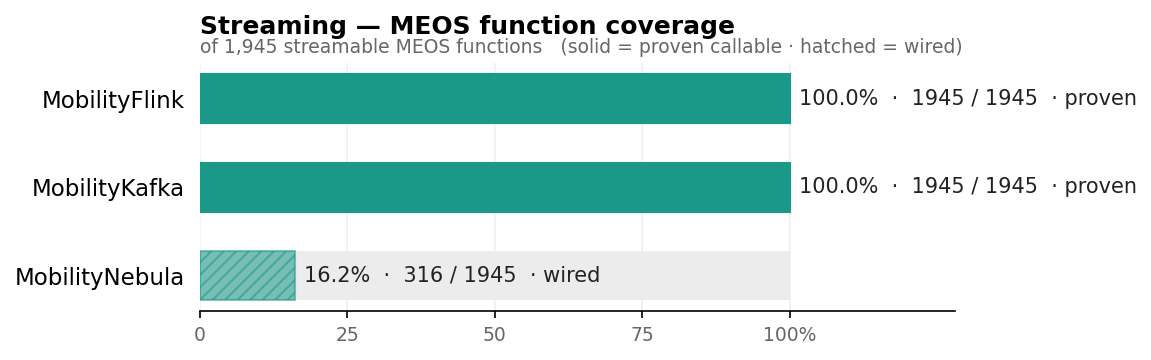
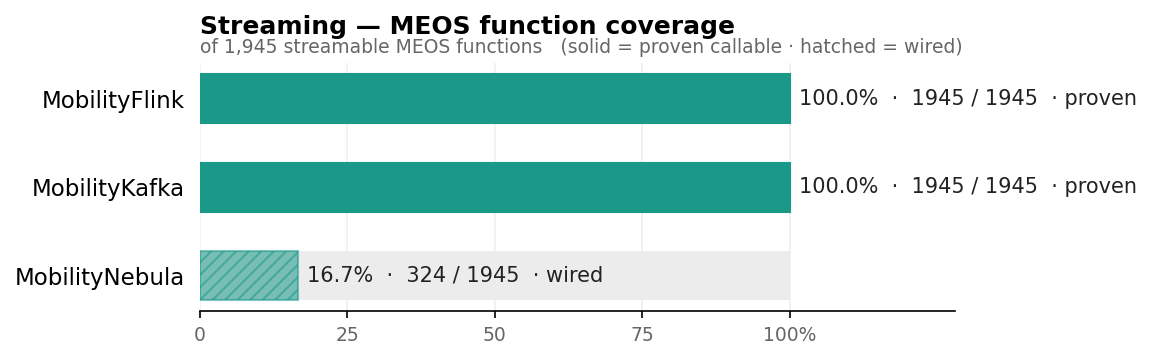
docs(profile): Nebula coverage 316 -> 324 (tnumber value-output aggregates)

Changed region(s): [[0.2433, 0.7028, 0.5474, 0.825]]

diff --git a/profile/images/coverage_charts.py b/profile/images/coverage_charts.py
@@ -56,7 +56,7 @@ hbar(
     [
         ("MobilityFlink",  100.0, "100.0%  ·  1945 / 1945  · proven", "#1a9988", True),
         ("MobilityKafka",  100.0, "100.0%  ·  1945 / 1945  · proven", "#1a9988", True),
-        ("MobilityNebula",  16.2, "16.2%  ·  316 / 1945  · wired",    "#1a9988", False),
+        ("MobilityNebula",  16.7, "16.7%  ·  324 / 1945  · wired",    "#1a9988", False),
     ],
     "of 1,945 streamable MEOS functions   (solid = proven callable · hatched = wired)",
 )

diff --git a/profile/streaming-parity.md b/profile/streaming-parity.md
@@ -18,7 +18,7 @@ deploy on real workloads?* — with reproducible evidence rather than assertion.
 
 Coverage of the **1,945 streamable MEOS functions** — confirmed callable on a real `libmeos`:
 
-<img src="https://raw.githubusercontent.com/MobilityDB/.github/main/profile/images/streaming-coverage.png?v=10" width="760" alt="Streaming MEOS function coverage of 1,945 streamable functions: MobilityFlink 100.0% (1945/1945, proven callable), MobilityKafka 100.0% (1945/1945, proven callable), MobilityNebula 16.2% (316/1945, wired)" />
+<img src="https://raw.githubusercontent.com/MobilityDB/.github/main/profile/images/streaming-coverage.png?v=11" width="760" alt="Streaming MEOS function coverage of 1,945 streamable functions: MobilityFlink 100.0% (1945/1945, proven callable), MobilityKafka 100.0% (1945/1945, proven callable), MobilityNebula 16.7% (324/1945, wired)" />
 
 - **Correctness** — all **9 BerlinMOD queries × 3 streaming forms = 27/27 cells** reproduce the batch result on every platform; the Flink snapshot output is **byte-identical** to the batch oracle.
 
@@ -55,7 +55,7 @@ Three layers, increasing in strength:
 |---|--:|--:|--:|
 | **MobilityFlink**  | **1,945 callable** | 1,945 | **100.0 %** |
 | **MobilityKafka**  | **1,945 callable** | 1,945 | **100.0 %** |
-| **MobilityNebula** | 6 systest-confirmed | 316 wired · compile-verified | 16.2 % wired |
+| **MobilityNebula** | 6 systest-confirmed | 324 wired · compile-verified | 16.7 % wired |
 
 Flink and Kafka share one generated JNR-FFI facade, so their callability is identical;
 it is confirmed by a type-aware per-method harness that invokes **every** facade method
